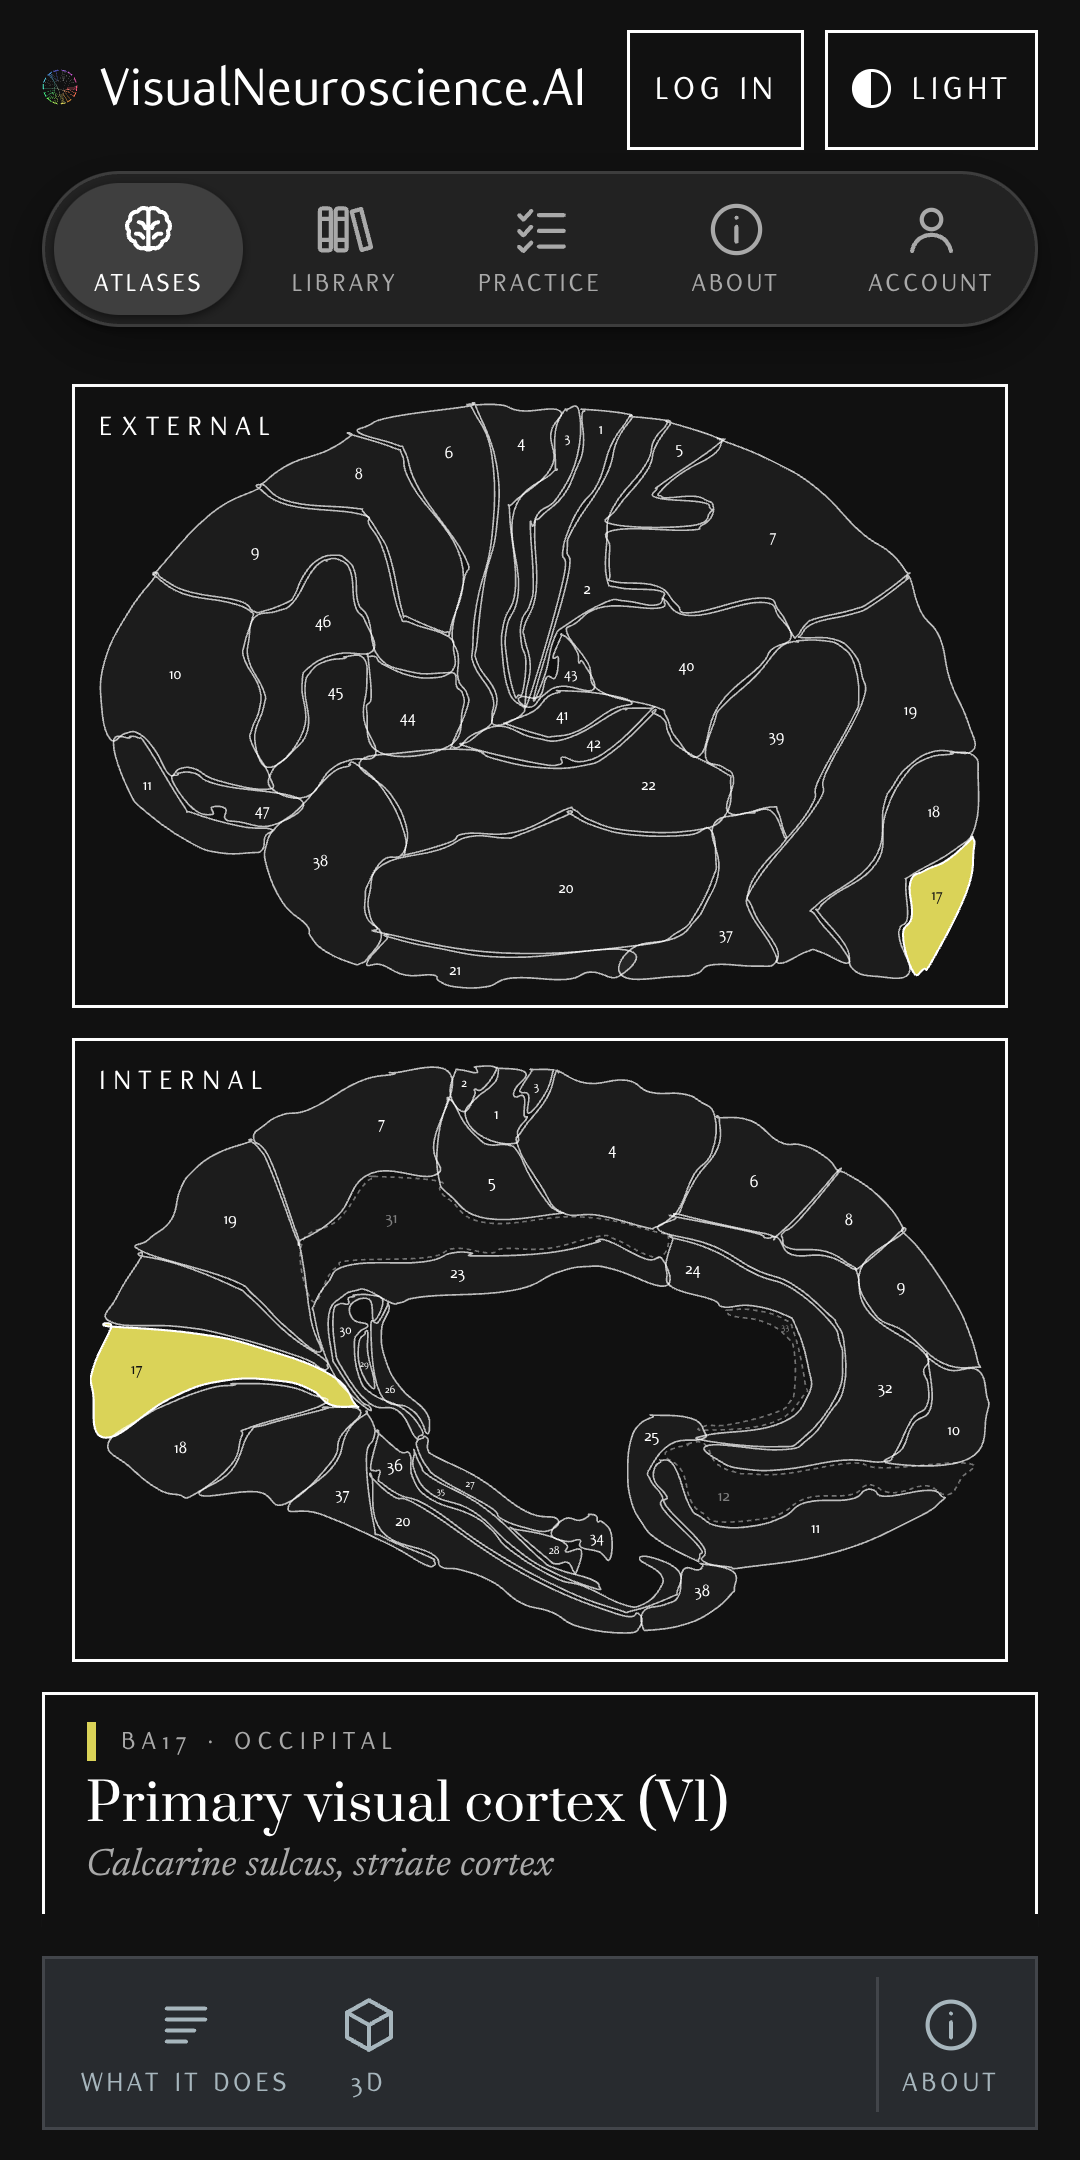
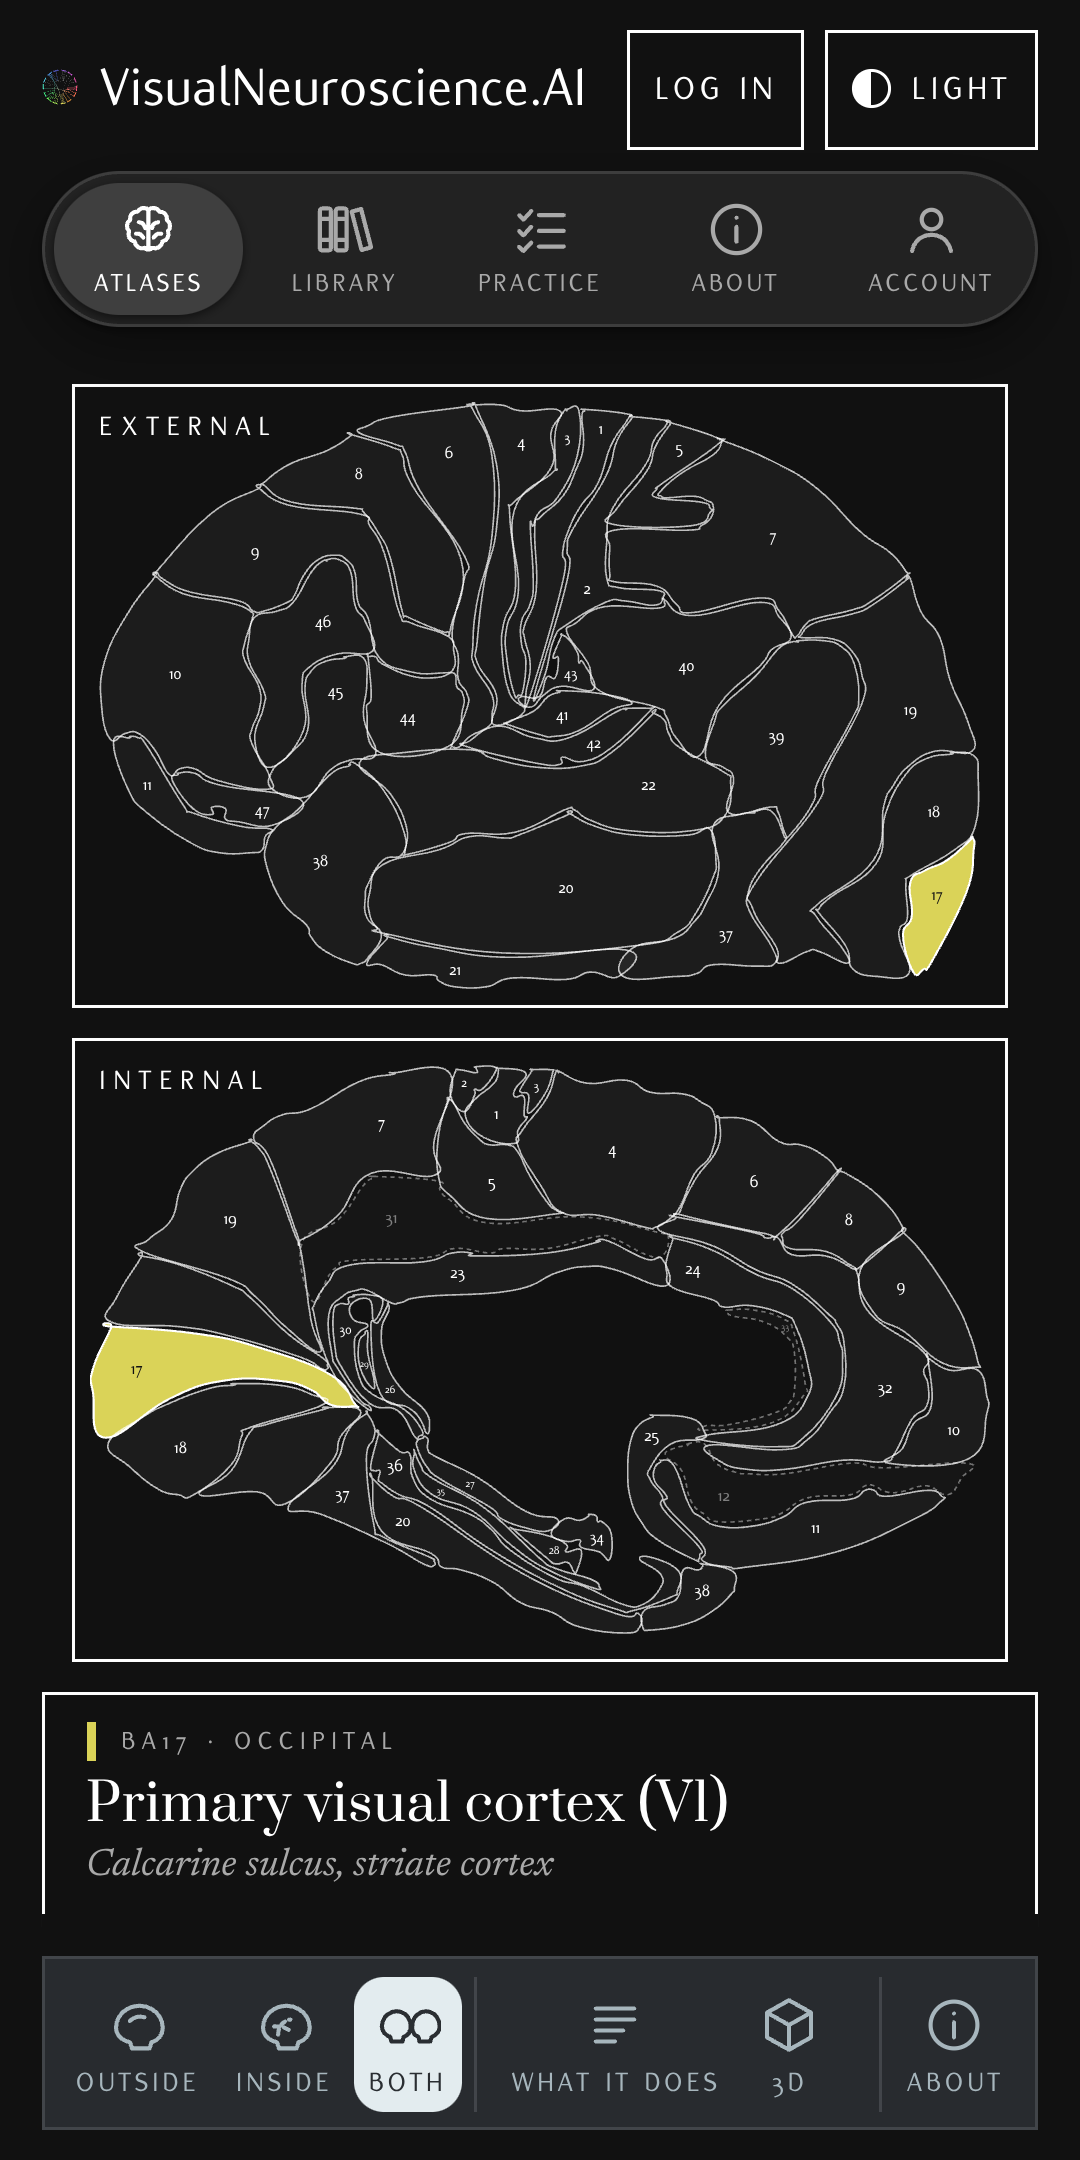
Stop the Brodmann Area Atlas scrolling on a phone and keep the face picks on its bar upright
At the owner's word the Brodmann Area Atlas no longer scrolls on a phone: its body kept a margin of two rems beneath a screen that already fills the window, which gave the page a few lines of travel, so the margin goes and the root is clipped with the body as on the other atlases. Upright the bar keeps Outside, Inside and Both, which it had hidden since v11.81 on the ground that both faces showed; a face picked on an iPad or with the phone held sideways was remembered on the device, and upright there was then no way back to both, one face standing over an empty room. A face alone now stands in the middle of that room and may take its whole height, the bar's six buttons are padded to fit a 360-pixel phone, the four phone store shots of the page are retaken, the service worker's version moves on and the ledger carries v12.11.

diff --git a/site/brodmann.html b/site/brodmann.html
@@ -71,8 +71,13 @@ body{
   background:var(--paper); color:var(--ink);
   font-family:var(--font-serif); font-size:1rem; line-height:1.62;
   font-optical-sizing:auto; -webkit-font-smoothing:antialiased;
-  padding-bottom:2rem;
+  padding-bottom:0;
 }
+/* the page is one screen (v11.15) and nothing scrolls: the root is clipped
+   with the body, as the atlases' are, since the body's old padding beneath
+   the screen left a few lines of scroll on a phone (v12.11, at the owner's
+   word); the sheets scroll inside their own boxes */
+html, body{ overflow:hidden; }
 ::selection{ background:var(--ink); color:var(--paper); }
 a{ color:var(--ink); text-decoration:none; }
 @media (hover: hover){ a:hover{ text-decoration:underline; text-underline-offset:3px; } }
@@ -477,9 +482,11 @@ svg{ display:block; }
 .ba-screen.one .reading, .ba-screen.land .reading{ position:relative; background:var(--paper); box-shadow:0 -10px 0 var(--paper); }
 .ba-screen.one .reading{ z-index:22; }
 .ba-screen.land .reading{ z-index:27; }
-/* upright the faces are both on show at the full width, so the picks have
-   nothing to give; elsewhere the brain is on show, so 3D has nothing to raise */
-.ba-screen.one .panelbar-views{ display:none; }
+/* upright the picks stay on the bar (v12.11, at the owner's word: a face
+   picked elsewhere is remembered, and until then the bar hid the way back
+   to Both); a face alone stands in the middle of the faces' room. Where the
+   brain is on show, 3D has nothing to raise */
+.ba-screen.one .maps.only-lateral, .ba-screen.one .maps.only-medial{ align-content:center; }
 .ba-screen.land #scanBtn, .ba-screen.tall #scanBtn, .ba-screen.wide #scanBtn{ display:none; }
 .ba-screen.land{
   grid-template-columns:var(--cart-w, 230px) minmax(0,1fr) 92px; grid-template-rows:minmax(0,1fr) auto;
@@ -597,7 +604,7 @@ body.ba-land{ padding-bottom:0; }
 /* upright on a phone the five tabs share the width, so they stand closer and
    drop the atlas's minimum width, and the bar never has to scroll */
 .ba-screen.one .panelbar{ gap:.3rem; padding-left:.35rem; padding-right:.35rem; }
-.ba-screen.one .pbtn{ min-width:0; padding:.3rem .4rem .25rem; }
+.ba-screen.one .pbtn{ min-width:0; padding:.3rem .3rem .25rem; }   /* six to the bar since v12.11, the faces' three among them */
 .ba-screen.one .panelbar-views{ padding-right:.3rem; margin-right:.1rem; }
 .ba-screen.one .panelbar-end{ padding-left:.3rem; }
 .ba-screen.one .pbtn.pbtn-ref{ margin-left:.1rem; padding-left:.5rem; }
@@ -826,7 +833,8 @@ body.ba-land{ padding-bottom:0; }
       /* the faces one over the other: the full width, or the width whose two
          faces fill the height left over the strip and the bar */
       var strip1 = rHead.offsetHeight + 20, bar1 = bar ? bar.offsetHeight : 0, free1 = H - strip1 - bar1 - 20;
-      var cw1 = Math.min(W, Math.floor((free1 - 10) / 2 * 1.5));
+      var faces1 = faceView === "both" ? 2 : 1;   /* one face alone may take the whole height (v12.11) */
+      var cw1 = Math.min(W, Math.floor((free1 - 10 * (faces1 - 1)) / faces1 * 1.5));
       screenEl.style.setProperty("--cart-w", Math.max(160, cw1) + "px");
       screenEl.style.removeProperty("--faces-h");
       return;

diff --git a/site/sw.js b/site/sw.js
@@ -25,7 +25,7 @@
    Nothing cross-origin is touched at all — since the typefaces moved
    in-house there is no outside request left to think about. */
 
-var VERSION = "vn-225";
+var VERSION = "vn-226";
 var SHELL   = VERSION + "-shell";
 var BULK    = VERSION + "-bulk";
 

diff --git a/docs/RELEASES.md b/docs/RELEASES.md
@@ -11,8 +11,13 @@ text below. Both can also be run from a clone on a machine that can push.
 
 Versions before v8.6 were released without a ledger and are not recorded.
 
+## v12.11 — 24 October 2026 — The Brodmann Area Atlas upright: nothing scrolls, and the faces are yours to pick
+Commit · Stop the Brodmann Area Atlas scrolling on a phone and keep the face picks on its bar upright
+
+On a phone held upright the Brodmann Area Atlas could still be dragged up and down by a few lines: the page's body kept a margin beneath a screen that already filled the window. Nothing scrolls now, as on the other atlases. The bar upright also keeps Outside, Inside and Both: a face picked on an iPad or with the phone held sideways was remembered, and upright the bar had hidden the way back to both faces, leaving one face over an empty room. A face alone now stands in the middle of that room, and the picks are there to change it.
+
 ## v12.10 — 24 October 2026 — The App Store images remade on the new pages
-Commit · Remake the App Store images from the live pages under the app's own chrome
+Commit `93f1726` · Remake the App Store images from the live pages under the app's own chrome
 
 The eighteen App Store images now show the app as it is after v12.9. Each is its page rendered as the app shows it, at the web view of the iPad and the iPhone the captures came from and in the same state as the capture, the same three regions lit in the same colours, the same window open, the same question dealt, joined to the app's own bar and tab bar cut from those captures and set under the owner's statements. A script in the repository remakes all eighteen in one run whenever the pages change, so the store keeps up without a device in hand.
 

diff --git a/CLAUDE.md b/CLAUDE.md
@@ -410,7 +410,11 @@ Read this first in every session. It is the handover; nothing else needs pasting
   1 / 2 / 2`, below the screen and `visibility:hidden` until `.in`) that the bar's 3D tab (`#scanBtn`, `setScan`,
   `scanOpen`; hidden on `.land`, `.tall` and `.wide`) slides up and down, fetched the first time it rises
   (`applyScanMode` leaves `.one` alone), Escape lowering it after About and the text; the Outside, Inside and Both group
-  is hidden upright, the faces both being on show at the full width. Sideways the faces are stacked down the left at
+  stays on the bar upright since v12.11, at the owner's word (hidden there from v11.81, which left a face remembered from
+  an iPad or a phone held sideways, `vn-ba-view`, with no way back to Both; a face alone stands centred in the faces'
+  room, `align-content:center`, and may take the whole height in `arrange()`; the bar's six buttons fit a 360px phone
+  with `.3rem` side padding). Nothing scrolls on the page since v12.11: `html, body{overflow:hidden}` and the body's old
+  `2rem` bottom padding gone, which stood beneath the screen and gave a phone a few lines of scroll. Sideways the faces are stacked down the left at
   `--cart-w` (`arrange()`: the width
   whose two faces fill the height over the strip, at most 42% of the room beside the bar, one face alone up to 55%; since
   v11.80 the boxes fill the column's height, `grid-template-rows:minmax(0,1fr)` per face and `aspect-ratio:auto`, the
